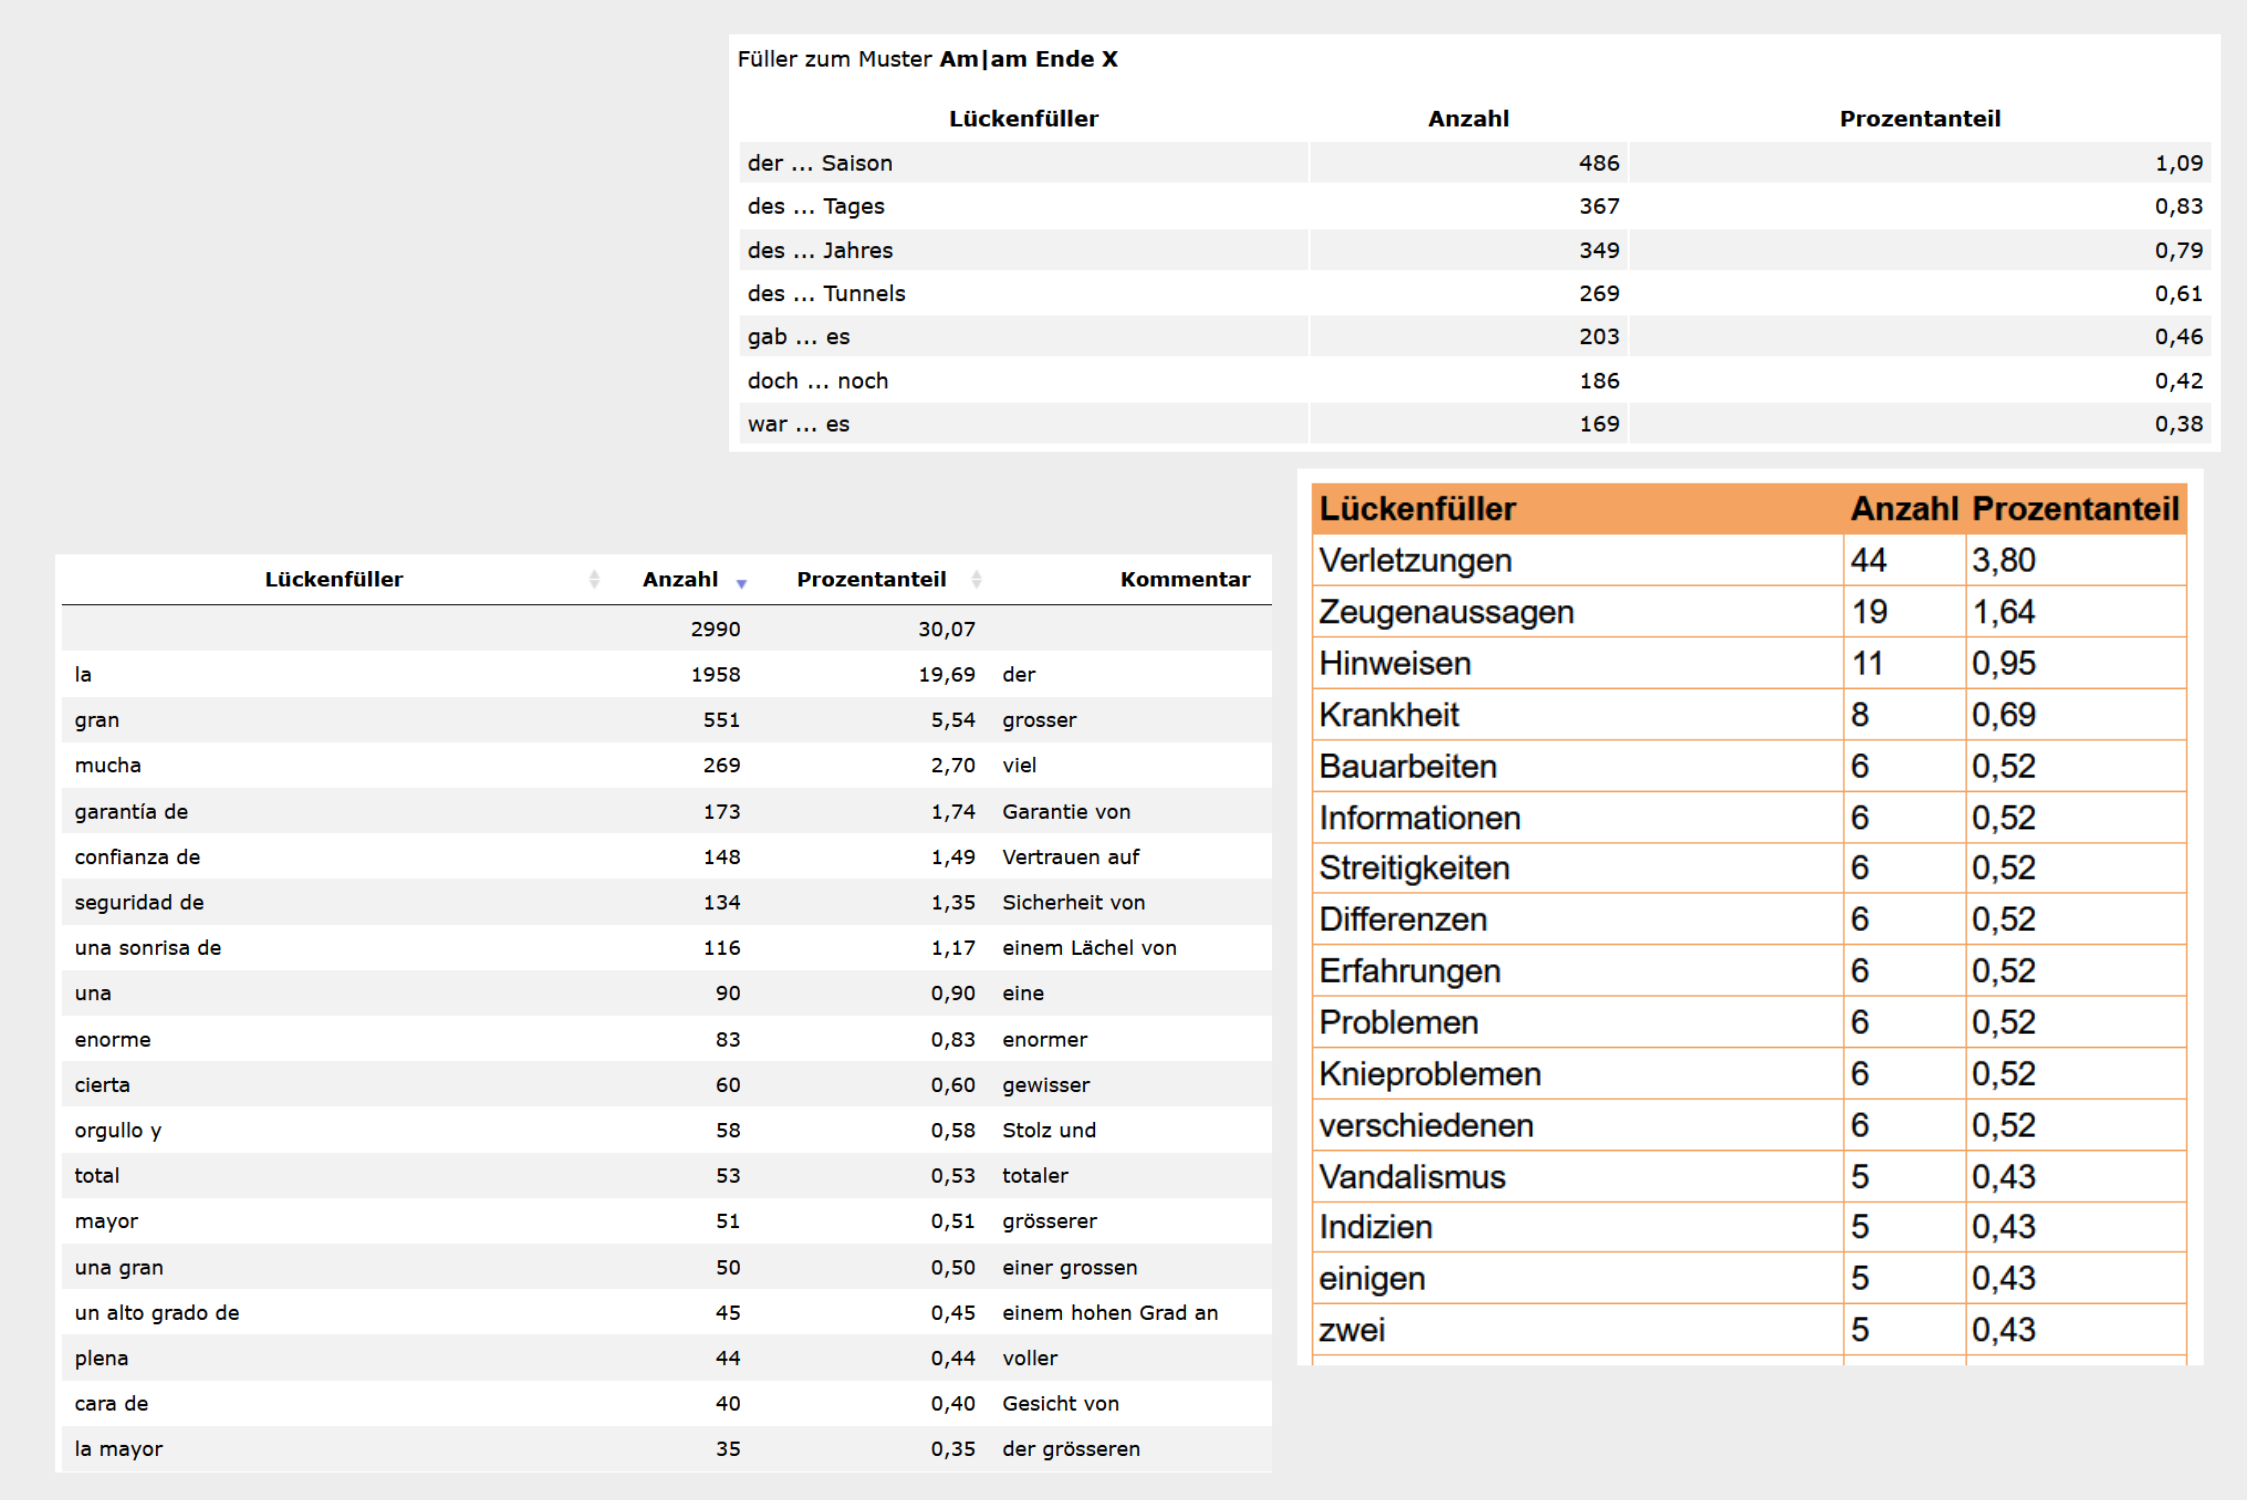
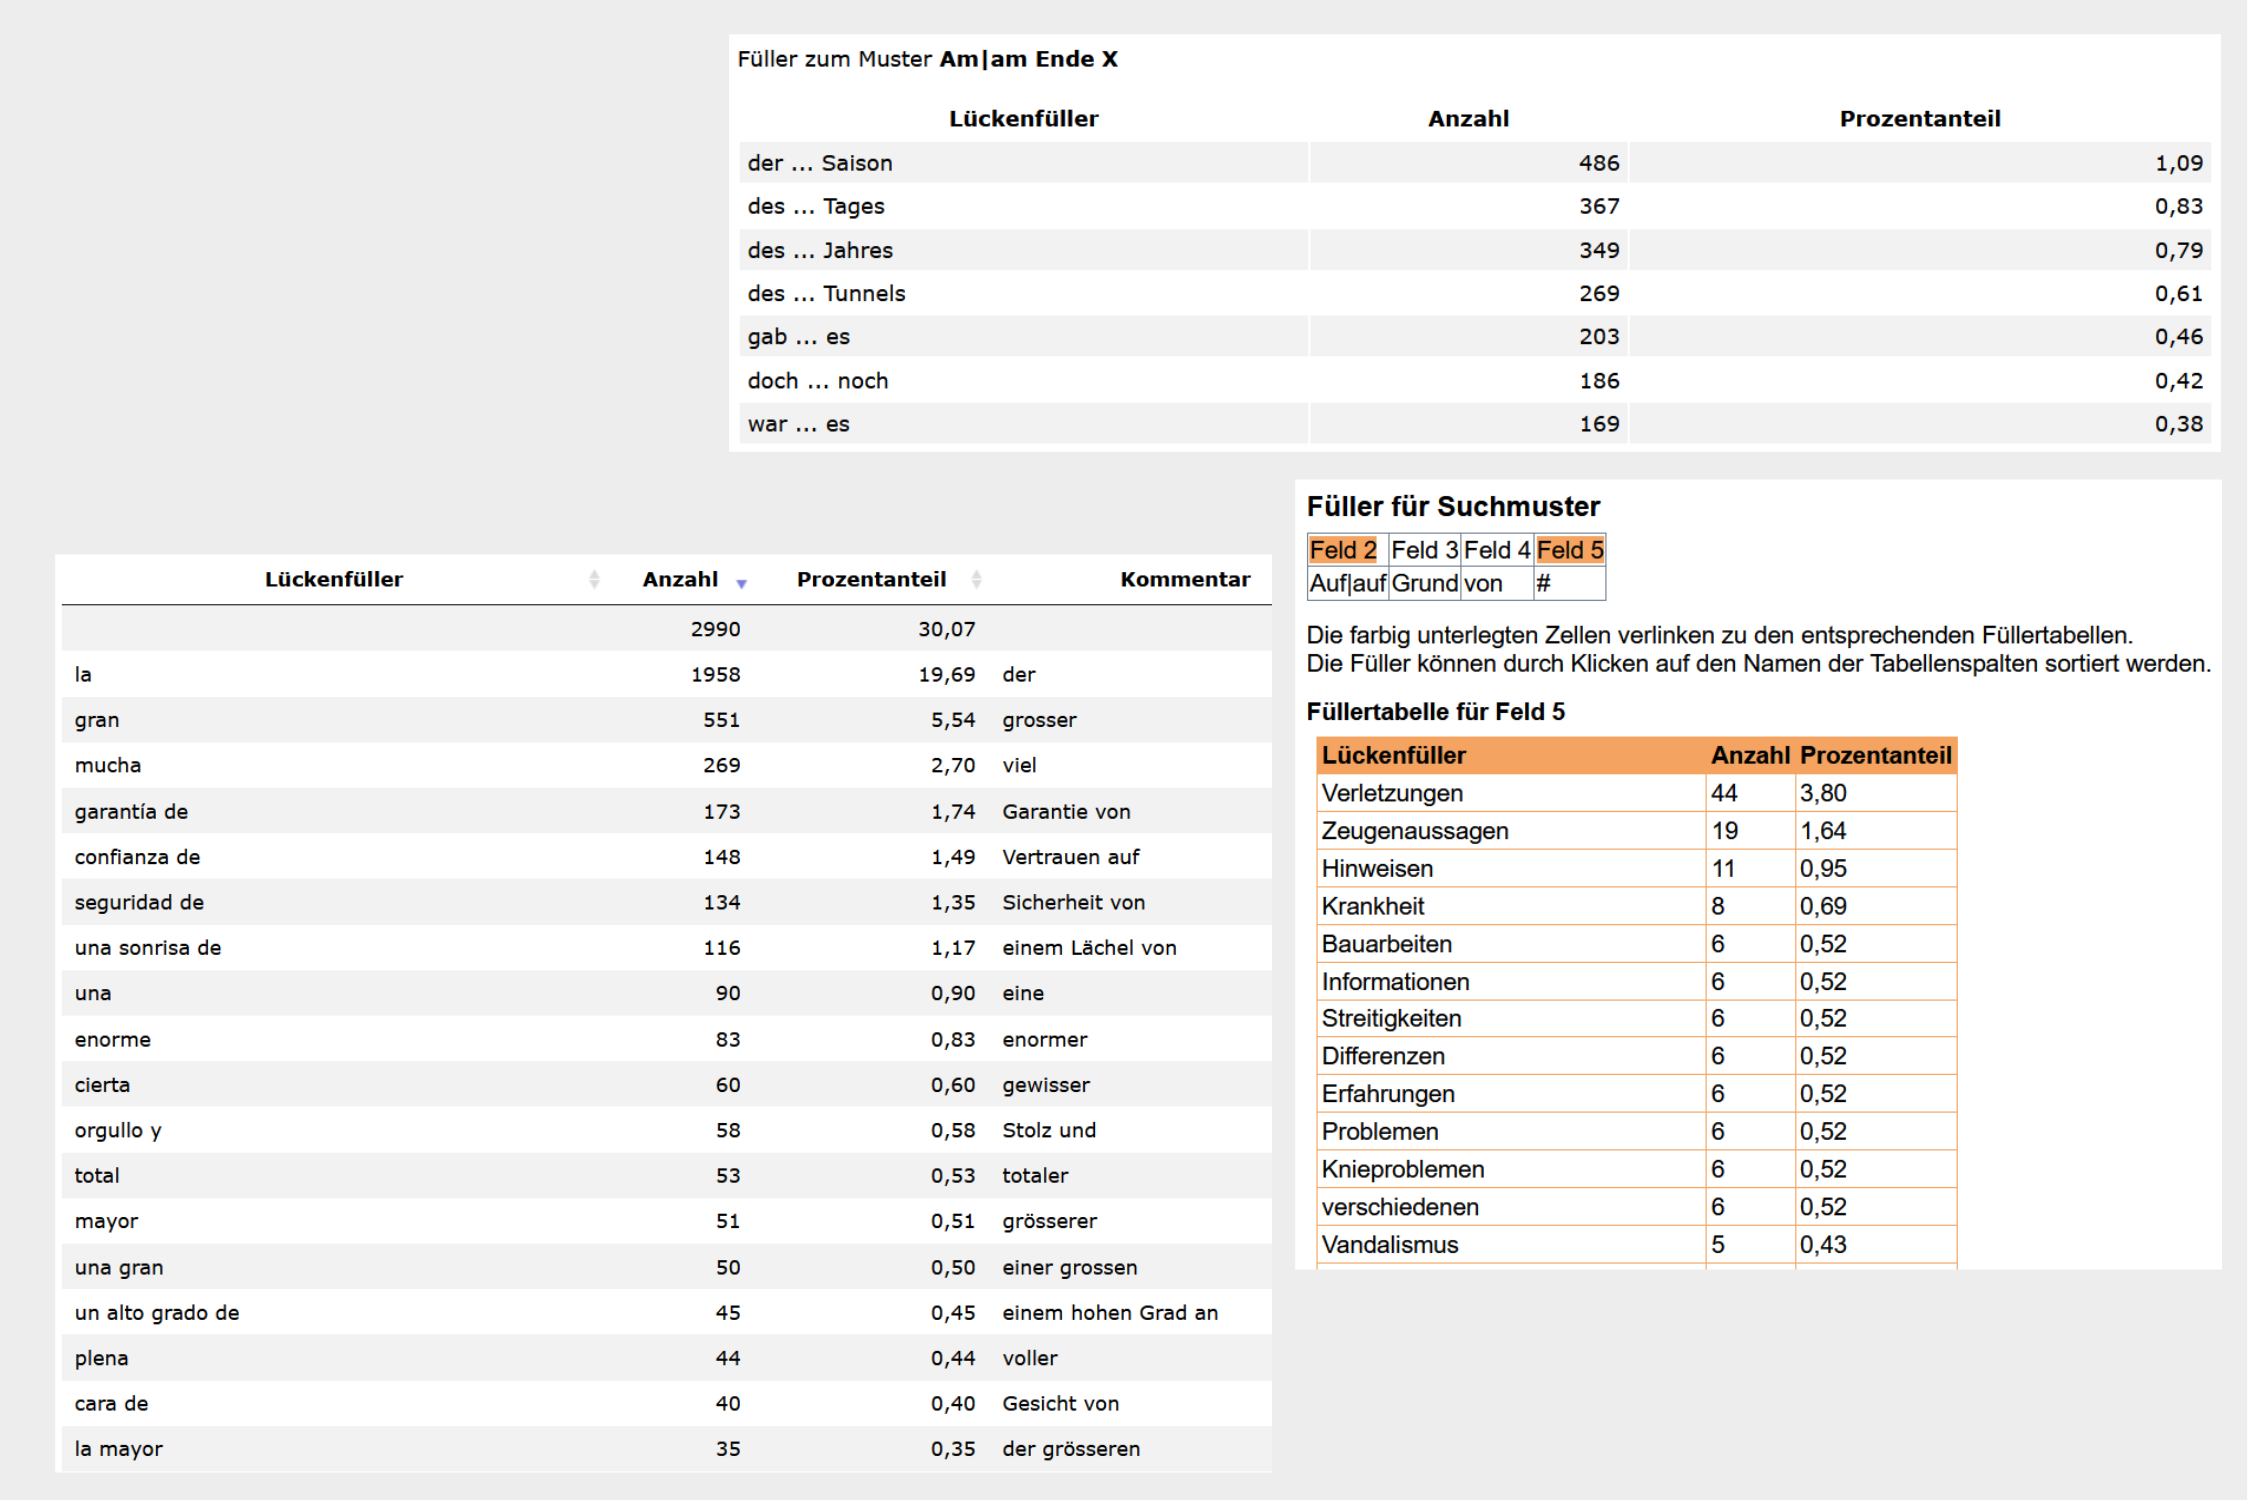
letzte Änderugen vor Übergabe

Changed region(s): [[0.56, 0.3067, 0.9956, 0.92]]

diff --git a/stores/layout.js b/stores/layout.js
@@ -55,6 +55,22 @@ export const useLayoutStore = defineStore("layoutStore", {
           },
         ],
         Informationstypen: [
+             {
+            name: "Frequenzangaben",
+            url: "/datatypes/frequency",
+          },
+          {
+            name: "KWICs",
+            url: "/datatypes/kwic",
+          },
+          {
+            name: "Kookkurrenzprofile",
+            url: "/datatypes/cooccurrence",
+          },
+          {
+            name: "Lückenfüllertabellen",
+            url: "/datatypes/patterntable",
+          },
           {
             name: "Kategoriale Label",
             url: "/datatypes/category",
@@ -79,22 +95,7 @@ export const useLayoutStore = defineStore("layoutStore", {
             name: "Fremdsprachige Äquivalenzen",
             url: "/datatypes/equivalence",
           },
-          {
-            name: "Frequenzangaben",
-            url: "/datatypes/frequency",
-          },
-          {
-            name: "KWICs",
-            url: "/datatypes/kwic",
-          },
-          {
-            name: "Kookkurrenzprofile",
-            url: "/datatypes/cooccurrence",
-          },
-          {
-            name: "Lückenfüllertabellen",
-            url: "/datatypes/patterntable",
-          },
+       
         ],
         "Wort- und Ausdrucksarten": [
           {

diff --git a/pages/patterns/dynamic.vue b/pages/patterns/dynamic.vue
@@ -99,12 +99,12 @@ export default {
           </p>
           <template #explain>
             <NuxtImage src="/img/patterns/dynamic/prepcon_temp_amXEnde.png" alt="Beispielgrafik 1"
-              to="http://uwv.ids-mannheim.de/prepcon/modul2/artikel/am_Ende/index.html">
+              to="http://uwv.ids-mannheim.de/prepcon/modul2/artikel/am_Ende/htmlfiles/fillerfiles/Filler_Am_o_am_Xx_Ende_1_Field1.html">
               Interne Füllergruppe mit lokalen Adjektiven im Eintrag „am Ende“: Muster [<em>am</em>
               ADJEKTIV<sub>LOKAL</sub> <em>Ende</em>]
             </NuxtImage>
             <NuxtImage src="/img/patterns/dynamic/prepcon_temp_amEndeX.png" alt="Beispielgrafik 2"
-              to="http://uwv.ids-mannheim.de/prepcon/modul2/artikel/am_Ende/htmlfiles/fillerfiles/Filler_Am_o_am_Xx_Ende_1_Field1_XML/Kwics_anderen_125.html">
+              to="http://uwv.ids-mannheim.de/prepcon/modul2/artikel/am_Ende/htmlfiles/fillerfiles/Filler_am_o_Am_Ende_X_X_8_Field2_3.html">
               Füllergruppe im Nachfeld mit Zeit- oder Eventnomina im Eintrag „am Ende“: Muster [<em>am Ende</em>
               NOMEN<sub>TEMPORAL_GENITIV</sub>]
             </NuxtImage>

diff --git a/pages/resources/db_desc.vue b/pages/resources/db_desc.vue
@@ -19,8 +19,8 @@ export default {
         style="float:right; margin: 1em 1em 0 1em; width: 40%;" />
     <p>Die deskriptiven Datenbanken im <hi>Syntagmatikon</hi> stellen eine Kombination aus automatisch erstellten
         Datenmengen und qualitativ erarbeiteten Informationen dar. Die Basis bilden Korpuserhebungen, bei denen
-        <NuxtLink to="/datatypes/frequency">Frequenzen</NuxtLink> ermittelt und <NuxtLink to="/datatypes/matches">
-            Korpusbelege</NuxtLink> extrahiert wurden. Diese empirische Basis wurde im weiteren Arbeitsverlauf nach
+       Frequenzen ermittelt und 
+            Korpusbelege extrahiert wurden. Diese empirische Basis wurde im weiteren Arbeitsverlauf nach
         spezifischen
         linguistischen Modellen manuell ausgewertet und annotiert.
     </p>

diff --git a/pages/index.vue b/pages/index.vue
@@ -37,7 +37,7 @@
           <v-icon style="font-size: 60px;">
             mdi-database-search-outline
           </v-icon>
-          <div><strong>über 85.000</strong><br> Einträge</div>
+          <div><strong>ca 90.000</strong><br> Einträge</div>
         </div>
       </div>
     </v-col>
